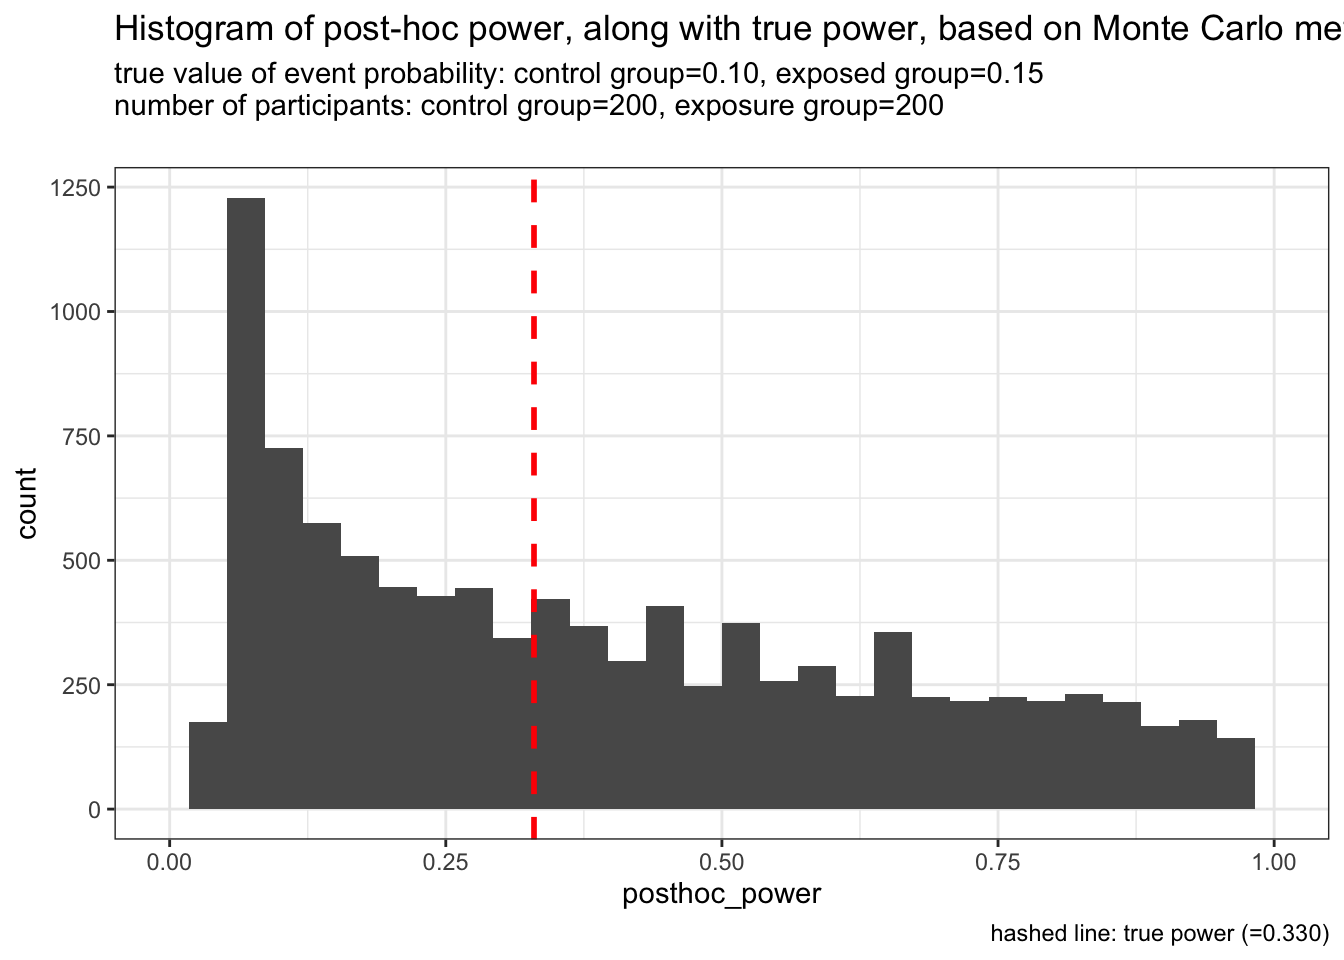
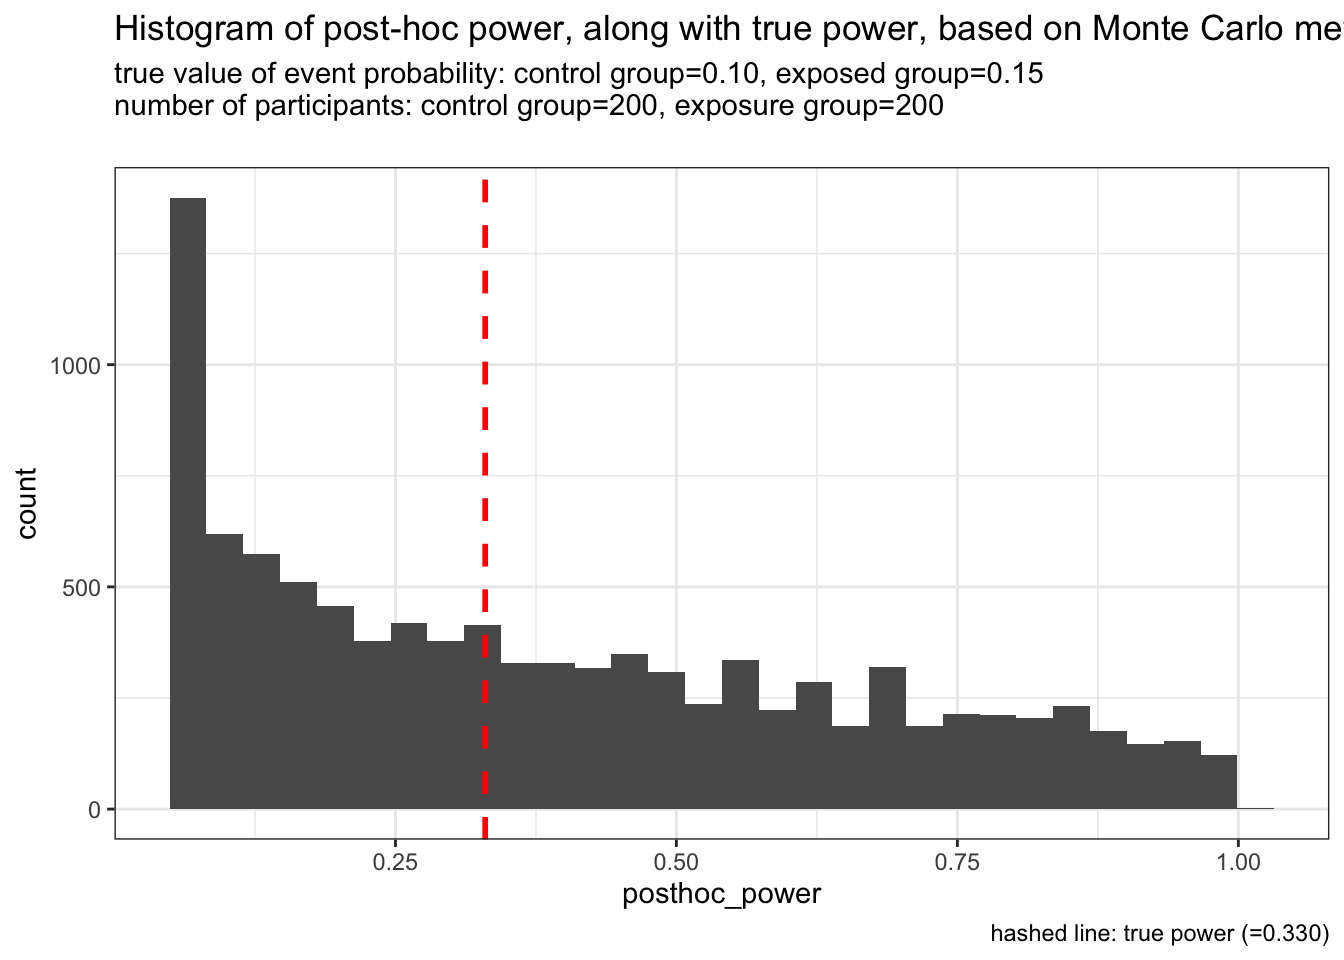
build and render

diff --git a/docs/post/2022-08-06-posthoc-power/index.html b/docs/post/2022-08-06-posthoc-power/index.html
@@ -299,7 +299,6 @@ Visualize_PosthocPowerAnalysis &lt;- function(n1, n2, prob1, prob2, itr=10000){
   plot &lt;- ggplot(data = data, aes(x = posthoc_power)) + 
     geom_histogram() + 
     geom_vline(xintercept = true_power, linetype = 2, size=1, colour = &quot;red&quot;) + 
-    xlim(c(0, 1)) +
     labs(title = &quot;Histogram of post-hoc power, along with true power, based on Monte Carlo method&quot;,
          subtitle = subtitle,
          caption = caption) + 
@@ -330,7 +329,7 @@ Visualize_PosthocPowerAnalysis &lt;- function(n1, n2, prob1, prob2, itr=10000){
 <h3>例1</h3>
 <p>各群200人 (合計400人)、コントロール群でイベント発生割合が10%, 曝露群で15% (i.e., risk ratio = 1.5) とします。</p>
 <p>下の図を見てください。例1の設定では、真のpower (=prospective power) は0.33です。
-一方、この設定で得られたサンプリングされた集団で得たpost-hoc powerは0.10程度から0.90近くまで、非常に様々な値を取ります。
+一方、この設定で得られたサンプリングされた集団で得たpost-hoc powerは0付近から1.0近くまで、非常に様々な値を取ります。
 また、post-hoc powerの最頻値もprospective powerから乖離していますね。</p>
 <p>これじゃ、post-hoc powerを見たところで、何も言えないなーって感じしちゃいますよね。</p>
 <pre class="r"><code>Visualize_PosthocPowerAnalysis(n1 = 200, n2 = 200, 
@@ -349,7 +348,7 @@ Visualize_PosthocPowerAnalysis &lt;- function(n1, n2, prob1, prob2, itr=10000){
 <p>やけくそ気味に各群1000人 (合計2000人) としました。prospective power=0.925です。</p>
 <p>こうなると、かなりprospective powerとpost-hoc powerが近くなることがわかります。
 ただprospective powerが0.925と、ほぼほぼ有意と判断される状況ですから、post-hoc power analysisをしたい状況ではないような気がします。</p>
-<pre class="r"><code>Visualize_PosthocPowerAnalysis(n1 = 1500, n2 = 1500, 
+<pre class="r"><code>Visualize_PosthocPowerAnalysis(n1 = 1000, n2 = 1000, 
                                prob1 = 0.1, prob2 = 0.15)</code></pre>
 <p><img src="https://toro-maguro.github.io/post/2022-08-06-posthoc-power/index_files/figure-html/unnamed-chunk-4-1.png" width="672" /></p>
 </div>
